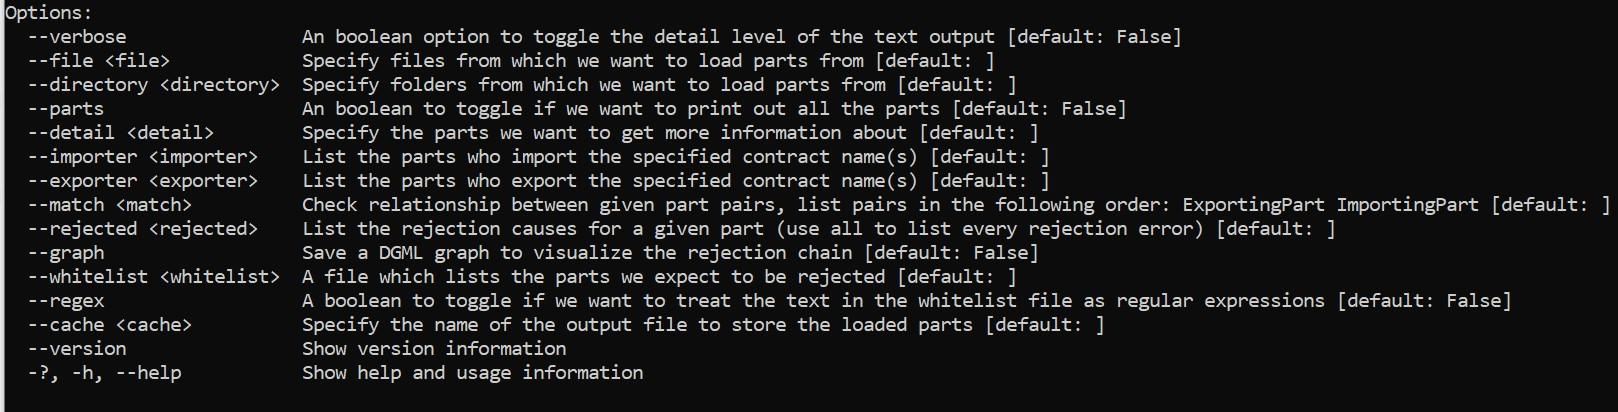
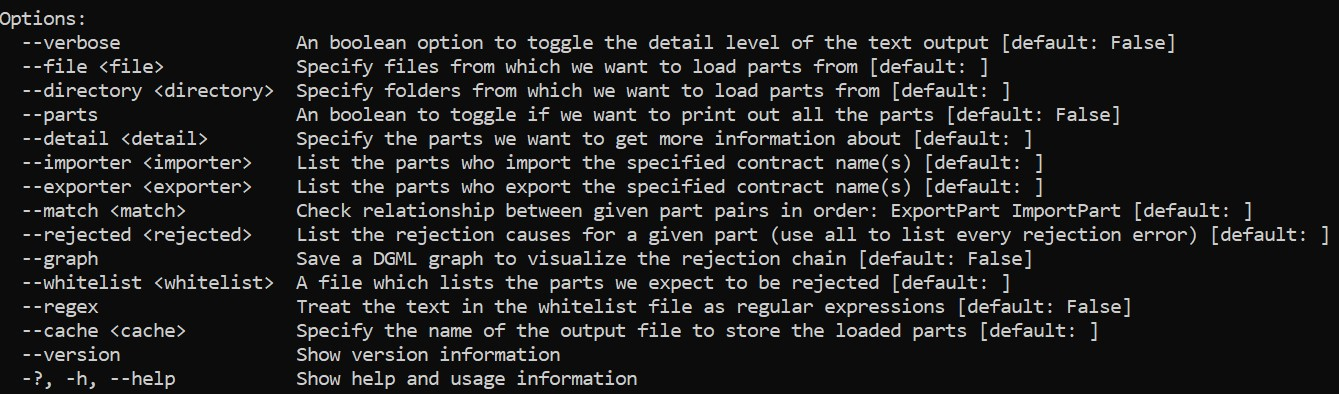
Fixed level ordering in textual output

Changed region(s): [[0.0, 0.0, 1.0, 1.0]]

diff --git a/VSMefx/Commands/RejectionTracer.cs b/VSMefx/Commands/RejectionTracer.cs
@@ -34,8 +34,7 @@ namespace VSMefx.Commands
             //Get the error stack from the composition configuration
             CompositionConfiguration Config = this.Creator.Config;
             var Errors = Config.CompositionErrors;
-            int LevelNumber = Errors.Count();
-            this.MaxLevels = LevelNumber;
+            int LevelNumber = 1;
             while (Errors.Count() > 0)
             {
                 //Process all the parts present in the current level of the stack
@@ -73,8 +72,9 @@ namespace VSMefx.Commands
                 }
                 //Get the next level of the stack
                 Errors = Errors.Pop();
-                LevelNumber -= 1;
+                LevelNumber += 1;
             }
+            this.MaxLevels = LevelNumber - 1;
         }
 
         public RejectionTracer(ConfigCreator DerivedInfo, CLIOptions Arguments) : base(DerivedInfo, Arguments)
@@ -118,7 +118,7 @@ namespace VSMefx.Commands
 
         private void ListAllRejections()
         {
-            for (int Level = 1; Level <= MaxLevels; Level++)
+            for (int Level = MaxLevels; Level > 0; Level--)
             {
                 ListErrorsinLevel(Level);
             }
@@ -167,9 +167,9 @@ namespace VSMefx.Commands
 
             Queue<PartNode> CurrentLevelNodes = new Queue<PartNode>();
             CurrentLevelNodes.Enqueue(RejectionGraph[PartName]);
-            int CurrentLevel = 1;
             while (CurrentLevelNodes.Count() > 0)
             {
+                int CurrentLevel = CurrentLevelNodes.Peek().Level;
                 Console.WriteLine("Errors in Level " + CurrentLevel);
                 //Iterate through all the nodes in the current level
                 int NumNodes = CurrentLevelNodes.Count();
@@ -191,7 +191,6 @@ namespace VSMefx.Commands
                         }
                     }
                 }
-                CurrentLevel += 1;
                 if (!Options.Verbose)
                 {
                     Console.WriteLine();

diff --git a/VSMefx/Program.cs b/VSMefx/Program.cs
@@ -47,7 +47,7 @@ namespace VSMefx
         /// <param name="rejected">List the rejection causes for a given part (use all to list every rejection error)</param>
         /// <param name="graph">Save a DGML graph to visualize the rejection chain</param>
         /// <param name="whitelist">A file which lists the parts we expect to be rejected</param>
-        /// <param name="regex">A boolean to toggle if we want to treat the text in the whitelist file as regular expressions</param>
+        /// <param name="regex">Treat the text in the whitelist file as regular expressions</param>
         /// <param name="cache">Specify the name of the output file to store the loaded parts</param>
         static async Task Main(bool verbose = false, 
             List<string> file = null, 

diff --git a/README.md b/README.md
@@ -5,26 +5,23 @@ A Composition Analysis Tool for VS-MEF
 
 ![A image of all the command Options](Images/Options.jpg)
 
-## Example Commands 
-
-The application currently sets the working directory based on the testFolder field in the Program.cs file. If the testFolder is a subFolder in the Tests directory then the program sets the currently working directory to the specified testFolder. If the testFolder is a empty string then the currently working directory will be set to Tests. File and folder paths needed to be specified relative to the currently working directory for the application to be able to process them. When running the application through Visual Studio, the input command can be specified by navigating to the following section: Solution Properties (Right Click the VSMefx Solution in vs) -> Debug -> Start Options. 
+## Example Commands
 
 ### Part Information Getter 
 
-The following command illustrates the basic functionality to get information about parts and thier types: 
+The following command illustrates the basic functionality to get information about parts and thier dependencies: 
 ```
 --parts --detail MefCalculator.ImportTest --exporter MefCalculator.MefCalculatorInterfaces+IOperation --importer ExtendedOperations.ChainOne  --file MefCalculator.dll --directory Extensions
 ```
 
-This command performs a variety of different operations and thus we will break down the command by those operations to understand
+This command performs a variety of different operations and thus we will break down the command by the specified options to understand
 its functionality. We specify that we want to perform analysis on the MefCalculator.dll file as well as the Extensions folder through ` --files MefCalculator.dll --directory Extensions `. When a folder is specified, Mefx automatically finds all valid files present in the folder itself along with its subfolders. 
 
-Currently, Mefx considers any file with the extensions .dll, .exe, or .cache as valid files. Please note that the .cache file must have been created using the SaveAsync of the Cached Catalog in the main MEF library for Mefx to be able to properly process the file. Mefx allows users to store the catalog created from the files specified in the input argument by specifiying the output file name in the `--cache` option and thus can be called by including something like `--cache Combined.cache` in the command.
+Currently, Mefx considers any file with the extensions .dll, .exe, or .cache as valid files. Please note that the .cache file must have been created using the SaveAsync of the Cached Catalog in the main MEF library for Mefx to be able to properly process the file. Mefx allows users to store the catalog created from the files specified in the input argument by specifiying the output file name in the `--cache` option and thus can be called by including something like `--cache Combined.cache` in the command. 
 
-The `--parts` argument of the commands tells Mefx to list all the parts present in the input files and folders. The `--detail` argument allows us to get more information on a particular part by printing out all the imports and exports associated with the specified part name. 
+The `--parts` option of the commands tells Mefx to list all the parts present in the input files and folders. The `--detail` argument allows us to get more information on a particular part by printing out all the imports and exports associated with the specified part name. 
 
-The `--exporter` command can be used to find the exporters of a given contract name like `--exporter MefCalculator.MefCalculatorInterfaces+IOperation` finds all exports with the contract name of IOperation. Finally, the `--importer` can be used to find the parts that contains imports with a given contract name like `--importer MajorRevision`
-finds all the parts that contain a import with the contract name of MajorRevision. 
+The `--exporter` option can be used to find the exporters of a given contract name like `--exporter MefCalculator.MefCalculatorInterfaces+IOperation` finds all exports with the contract name of IOperation. Finally, the `--importer` option can be used to find the parts that contains imports with a given contract name like `--importer MajorRevision` finds all the parts that contain a import with the contract name of MajorRevision. 
 
 The above commands gives us the following output which shows the workings of all the features above: 
 ```
@@ -61,17 +58,17 @@ The following command showcases the ability of Mefx to share rejection informati
 --graph --rejected all  --file MefCalculator.dll --directory Extensions
 ```
 
-The main things that we want to focus on in this section are the `--graph` and the `--rejected all` sections of the command. The `-r all` tells Mefx that we want information about all the rejections, and in the next example we will see how we can get rejection information about particular parts. The `--graph` command tells Mefx to generate a [DGML file](https://docs.microsoft.com/en-us/visualstudio/modeling/directed-graph-markup-language-dgml-reference?view=vs-2019) to visualize the rejection graph and see which imports and parts are causing issues. 
+The main things that we want to focus on in this section are the `--graph` and the `--rejected all` sections of the command. The `--rejected all` tells Mefx that we want information about all the rejections, and in the next example we will see how we can get rejection information about particular parts. The `--graph` command tells Mefx to generate a [DGML file](https://docs.microsoft.com/en-us/visualstudio/modeling/directed-graph-markup-language-dgml-reference?view=vs-2019) to visualize the rejection graph and see which imports and parts are causing issues. 
 
 The output of running the above command looks like: 
 ```
-Listing errors in level 1
+Listing errors in level 3
 ExtendedOperations.Modulo
 
 Listing errors in level 2
 ExtendedOperations.ChainOne
 
-Listing errors in level 3
+Listing errors in level 1
 MefCalculator.ExportTest
 MefCalculator.AddIn
 MefCalculator.ImportTest
@@ -79,18 +76,18 @@ MefCalculator.ImportTest
 Saved rejection graph to All.dgml
 ```
 
-Mefx classify parts that have import issues into different levels based on the cause of thier import issues. Parts on lower levels, parts with smaller level numbers, generally tend to have rejection issues because of the fact that they are importing a part that has failed imports itself, which means that the part they are trying to import will have a higher level number. 
+Mefx classify parts that have import issues into different levels based on the cause of thier import issues. Parts on higher levels, i.e. parts with larger level numbers, generally tend to have rejection issues because of the fact that they are importing a part that has failed imports itself, which means that the part they are trying to import will have a lower level number. 
 
-Another way of saying the above statement is that rejections in lower levels tend to be caused by issues in a higher level and thus we can examine the root causes of our failed rejections by looking at issues at the highest level since the issues are guaranteed to not because of a part that they are importing. 
+Another way of saying the above statement is that rejections in higher levels tend to be caused by issues in a lower level. Thus we can examine the **root causes** of our failed rejections by looking at issues at the lowest level since the issues at that level are guaranteed to not because of a part that they are importing. 
 
-The saved DGML file has the parts that have import issues as the nodes and has directed edges between parts to indicate the flow of part imports. Since we only store the nodes that have rejection issues, any incoming edges into a graph can be interpreted as parts that are causing it to be rejected and any outgoing edges can be thought of as parts that it is causing to be rejected. 
+The saved DGML file has the parts that have import issues as the nodes and has directed edges between parts to indicate the flow of part imports. Since we only store the nodes that have rejection issues, any incoming edges into a node can be interpreted as parts that are causing it to be rejected and any outgoing edges in a node can be thought of as parts that it is causing a rejection issues in. 
 
 If a part has exports other than itself, then Mefx visualizes that part as a container and stores the other exports inside the given container. 
 
 The DGML diagram that is saved when we run the above command looks like 
 ![DGML Graph for all the rejections](Images/All_Graph.jpg)
 
-To help the users, quickly diagonse import errors, the edges in the DGML diagram are labeled with the field name in the importing part that has the import issue, the head of the directed edge. For example, we can quickly derive from the above diagram that the import issue with ExtendedOperations.ChainOne in ExtendedOperations.Modulo is associated with the field addInput in Modulo.   
+To help the users, quickly diagonse import errors, the edges in the DGML diagram are labeled with the field name in the importing part, i.e. the part at the head of the directed edge. For example, we can quickly derive from the above diagram that the import issue with ExtendedOperations.ChainOne in ExtendedOperations.Modulo is associated with the field addInput in Modulo.   
 
 ### Specific Rejection Information 
 
@@ -99,13 +96,13 @@ When working with large projects and libraries with tons of .dll and .exe files,
 --verbose --graph --rejected ExtendedOperations.Modulo  --file MefCalculator.dll --directory Extensions
 ```
 
-When a user specifies a part to get rejection information about, Mefx automatically finds parts whose import issues impact the specified part, which in this case is ExtendedOperations.Modulo. Thus, when displaying information or generating a graph, Mefx only presents reject issues that impact the specified part and ignores all others. The `--verbose` command stands for verbose and that can be used to print out additional information about the issues and the parts involved. 
+When a user specifies a part to get rejection information about, Mefx automatically finds parts whose import issues impact the specified part. Thus, when displaying information or generating a graph, Mefx only presents import issues that impact the specified part, both directly and indirectly, and ignores all others. The `--verbose` command can be used to print out additional information about the issues and the parts involved. 
 
 The output of the above command is: 
 ```
 Printing Rejection Graph Info for ExtendedOperations.Modulo
 
-Errors in Level 1
+Errors in Level 3
 ExtendedOperations.Modulo.addInput: expected exactly 1 export matching constraints:
     Contract name: ExtendedOperations.ChainOne
     TypeIdentityName: ExtendedOperations.ChainOne
@@ -117,7 +114,7 @@ ExtendedOperations.ChainOne.Adder: expected exactly 1 export matching constraint
     TypeIdentityName: MefCalculator.AddIn
 but found 0.
 
-Errors in Level 3
+Errors in Level 1
 MefCalculator.AddIn.fieldOne: expected exactly 1 export matching constraints:
     Contract name: ChainOne
     TypeIdentityName: System.String
@@ -126,7 +123,7 @@ but found 0.
 Saved rejection graph to ExtendedOperations_Modulo.dgml
 ```
 
-Comparing this output to the previous output, we see that more rejected parts overall but Mefx automatically filtered out the rejections to only include those that affect the ExtendedOperations.Modulo part. Since the verbose option was chosen, Mefx prints out detailed information about the cause of the issue which can be used to quickly pinpoint and resolve the issue. We can see this filtering take place in the output DGML file as well as the output DGML file produced by the above command looks like: 
+Comparing this output to the previous output, we see that Mefx automatically filtered out the rejections to only include those that affect the ExtendedOperations.Modulo part. Since the verbose option was chosen, Mefx prints out detailed information about the cause of the issue which can be used to quickly pinpoint and resolve the issue. We can see this filtering take place in the output DGML file as well, which now looks like: 
 
 ![DGML Graph for specific rejection](Images/Modulo_Trace.jpg)
 
@@ -138,15 +135,13 @@ The whitelist options allows you to a specify a text file that lists parts that 
 --verbose --graph --rejected ExtendedOperations.Modulo  --file MefCalculator.dll --directory Extensions --whitelist expected.txt
 ```
 
-Currently, all Mefx does with the whitelist file is indicated to the user which parts have been whitelisted in both the textual and visual outputs. Rather than automatically
-removing parts which may introduce additional confusion, Mefx instead tries to make it to clear the user which parts have been whitelisted and let them decide how to best go
-about fixing this error with the above information in mind. 
+Currently, all Mefx does with the whitelist file is indicated to the user which parts have been whitelisted in both the textual and visual outputs. Rather than automatically removing parts which may introduce additional confusion, Mefx instead tries to make it to clear the user which parts have been whitelisted and let them decide how to best go about fixing this error with the above information in mind. 
 
 Thus, the output of the above command is: 
 ```
 Printing Rejection Graph Info for ExtendedOperations.Modulo
 
-Errors in Level 1
+Errors in Level 3
 ExtendedOperations.Modulo.addInput: expected exactly 1 export matching constraints:
     Contract name: ExtendedOperations.ChainOne
     TypeIdentityName: ExtendedOperations.ChainOne
@@ -158,7 +153,7 @@ Errors in Level 2
     TypeIdentityName: MefCalculator.AddIn
 but found 0.
 
-Errors in Level 3
+Errors in Level 1
 MefCalculator.AddIn.fieldOne: expected exactly 1 export matching constraints:
     Contract name: ChainOne
     TypeIdentityName: System.String
@@ -169,22 +164,20 @@ Saved rejection graph to ExtendedOperations_Modulo.dgml
 
 Additionally, Mefx also allows the user to treat the lines in the whitelist files as regular expression through the `--regex` option. For example, if we wanted to whitelist all the parts from the ExtendedOperations project, we could modify the line in expected.txt to contain the line "ExtendedOperations\\..*" and include the `--regex` option in our command.
 
-In the DGML file, Mefx indicates which parts have been whitelisted by changing the color of the nodes associated with the whitelisted parts to white which easily allows users to distinigiush between whitelisted parts and non whitelisted parts. Thus, the DGML file produced by the above command looks like:
+In the DGML file, Mefx indicates which parts have been whitelisted by changing the color of the nodes associated with the whitelisted parts to blue which easily allows users to distinigiush between whitelisted parts and non whitelisted parts. Thus, the DGML file produced by the above command looks like:
 
 
 ![DGML Graph with whitelisting](Images/WhitelistExample.jpg)
 
 ### Matching
 
-The match option provides users an option to easily check the import/export relationship between two given parts and analyze causes of import failures between two given
-parts. This feature is especially useful when paired with the rejection options as it provides specific information about how the import and export of the specified parts
-relate and why the exports fail to satisfy the import requirements. For example, the following command indicates how to properly use the match feature:
+The match option provides users an option to easily check the import/export relationship between two given parts and analyze causes of import failures between them. This feature is especially useful when paired with the rejection options as it provides specific information about how the import and export of the specified parts relate and why the exports fail to satisfy the import requirements. For example, the following command indicates how to properly use the match feature:
 
 ```
 --match MefCalculator.AddIn ExtendedOperations.ChainOne MefCalculator.ExportMeta MefCalculator.ImportTest --file MefCalculator.dll --directory Extensions
 ```
 
-Mefx accepts you list multiple pairs of parts in the match option but make sure you list the part who exports you want to consider before the part who exports you want to consider. Mefx analyzes the pairs from left to right and thus it interprets the above command as try to match the expors of MefCalculator.AddIn with the imports of ExtendedOperations.ChainOne as well as try to match the exports of MefCalculator.ExportMeta with the imports of MefCalculator.ImportTest. In general specify parts to the match command in the following order: `ExportPart1 ImportPart1 ExportPart2 ImportPart2 ...`
+Mefx allows you to list multiple pairs of parts in the match option but make sure you list the part who exports you want to consider before the part who imports you want to consider. Mefx analyzes the pairs from left to right and thus it interprets the above command as try to match the exports of MefCalculator.AddIn with the imports of ExtendedOperations.ChainOne as well as try to match the exports of MefCalculator.ExportMeta with the imports of MefCalculator.ImportTest. In general specify parts to the match command in the following order: `ExportPart1 ImportPart1 ExportPart2 ImportPart2 ...`
 
 The output of the above command is:
 
@@ -206,4 +199,4 @@ Export fails to sastify constraint of [Type: System.Int32]
 
 Let us analyze this output to understand how the match functionality works. For this first match pair, we found one export in MefCalculator.AddIn that satisfies the import constraints specified by the importing field Adder. This represents the ideal case where there is one export that satifies the import constraints without any composition failures.  
 
-Now lets us process the second output in detail as it showcases how Mefx deals with the non normal cases. If there is more than one export in the specified part that matches the importing contract name, then Mefx matches all of them against the import requirements individually. In the example above, exporting fields ExportOne and ExportTwo match the contract name for the importing field IntInput and thus the program considers both of them seperately. It then reports back to the user either that the export meets the import requirements or the reason why the export failed to meet the import requirements. Going back to the example, we see that the exporting field ExportOne meets all the import requirements but ExportTwo failes to meet the requirement that the exporting type be of System.Int32. 
+Now lets us process the second output in detail as it showcases how Mefx deals with the non normal cases. If there is more than one export in the specified part that matches the importing contract name, then Mefx matches all of them against the import requirements individually. In the example above, exporting fields ExportOne and ExportTwo both match the contract name for the importing field IntInput and thus the program considers both of them seperately. It then reports back to the user either that the export meets the import requirements or the reason why the export failed to meet the import requirements. Going back to the example, we see that the exporting field ExportOne meets all the import requirements but ExportTwo failes to meet the requirement that the exporting type be of System.Int32. 
